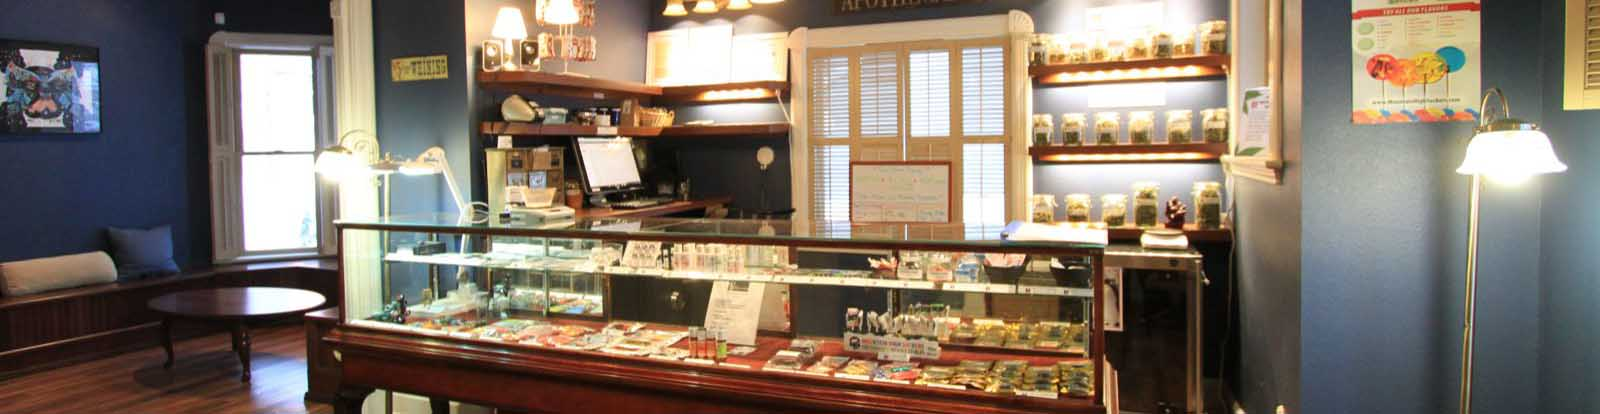
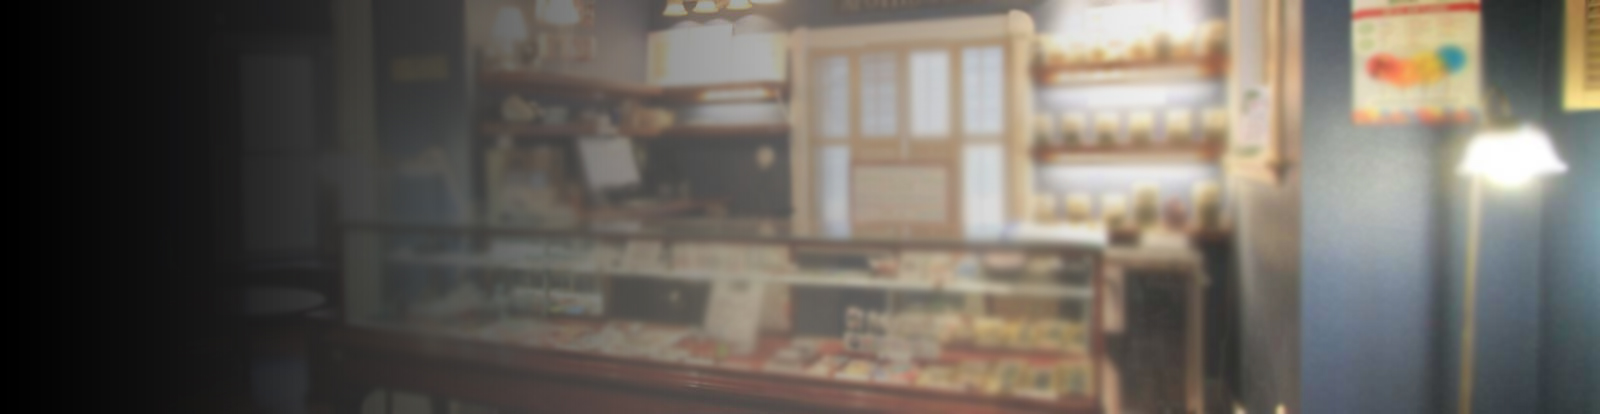
mailer changes and adding balance to disp after purchase

diff --git a/app/assets/stylesheets/application.css.scss b/app/assets/stylesheets/application.css.scss
@@ -29,15 +29,19 @@
 
  .list-well{
   height: 300px;
-  background: url("/assets/default_dispensary.jpg") no-repeat center center; 
+  background: asset-data-url("default_dispensary.jpg") no-repeat center center; 
   color: #f6f6f6 !important;
   padding: 150px 10px 0px 20px;
   cursor: pointer;
  }
 
  .list-well h4{
-
   text-transform: uppercase !important;
+ }
+
+ .list-well a{
+
+  color: #f6f6f6;
  }
 
  #search-bar{
@@ -208,8 +212,8 @@ select {
   color: white;
   text-decoration: none;
 }
- #dispensary-header .row{
-  background: url('THChealth.jpg')no-repeat center center;
+ #dispensary-header{
+  background: asset-data-url('THChealth.jpg')no-repeat center center;
   background-size: cover;
   -moz-background-size: cover;
   -webkit-background-size: cover;

diff --git a/app/models/user.rb b/app/models/user.rb
@@ -4,13 +4,18 @@ class User < ActiveRecord::Base
   devise :database_authenticatable, :registerable,
          :recoverable, :rememberable, :trackable, :validatable
 
-  has_many :loyalty_programs, dependent: :destroy
-  has_many :point_buckets, through: :loyalty_programs
-  has_many :dispensaries, through: :loyalty_programs
+  has_many :dispensaries, through: :redemptions
   has_many :redemptions
+  has_many :deals, through: :redemptions
   has_many :payments
 
   after_create :send_welcome_email
+
+  def set_points(deal)
+    value = (deal.price * 4.20).round(2)
+    self.nugdealz_points += value
+    self.save
+  end
 
   def send_welcome_email
       UserMailer.signup_confirmation(self).deliver
@@ -33,38 +38,12 @@ class User < ActiveRecord::Base
   end
 
   def favorite_dispensaries
-    dispensaries.sort_by{|d| loyalty_points_for(d)}.reverse
+    dispensaries.sort_by{|d| self.redemptions.where(dispensary_id: d.id).count}
   end
 
   def full_name
     "#{first_name} #{last_name}"
   end
-
-  def total_points
-    point_buckets.all.sum(:value)
-  end
-
-  def point_progress_for(dispensary)
-    total_points = loyalty_points_for(dispensary)
-
-    percent = total_points / 100
-    return percent *100
-  end
-
-  def loyalty_points_for(dispensary)
-    loyalty_program_for(dispensary).try(:total_points) || 0
-  end
-
-  def loyalty_program_for(dispensary)
-    self.loyalty_programs.find_by(dispensary_id: dispensary.id)
-  end
-
-  def has_loyalty_program_for?(dispensary)
-    self.loyalty_programs.where(:dispensary_id => dispensary.id).present?
-  end
-
-  def create_loyalty_program_for(dispensary)
-    LoyaltyProgram.create(dispensary_id: dispensary.id, user_id: self.id)
-  end
+  
 
 end

diff --git a/db/schema.rb b/db/schema.rb
@@ -52,6 +52,7 @@ ActiveRecord::Schema.define(version: 20150519133147) do
     t.string   "leafly_slug"
     t.string   "ein"
     t.string   "license_number"
+    t.decimal  "balance",                default: 0.0
   end
 
   add_index "dispensaries", ["email"], name: "index_dispensaries_on_email", unique: true
@@ -76,13 +77,6 @@ ActiveRecord::Schema.define(version: 20150519133147) do
     t.string   "license_number"
   end
 
-  create_table "loyalty_programs", force: true do |t|
-    t.integer  "user_id"
-    t.integer  "dispensary_id"
-    t.datetime "created_at"
-    t.datetime "updated_at"
-  end
-
   create_table "payments", force: true do |t|
     t.integer  "user_id"
     t.integer  "amount"
@@ -91,14 +85,6 @@ ActiveRecord::Schema.define(version: 20150519133147) do
     t.string   "card_last_4"
     t.string   "card_brand"
     t.text     "description"
-    t.datetime "created_at"
-    t.datetime "updated_at"
-  end
-
-  create_table "point_buckets", force: true do |t|
-    t.integer  "user_id"
-    t.integer  "loyalty_program_id"
-    t.float    "value"
     t.datetime "created_at"
     t.datetime "updated_at"
   end
@@ -138,6 +124,7 @@ ActiveRecord::Schema.define(version: 20150519133147) do
     t.boolean  "admin",                  default: false
     t.string   "stripe_customer_token"
     t.integer  "sign_in_count",          default: 0
+    t.decimal  "nugdealz_points",        default: 0.0
   end
 
   add_index "users", ["email"], name: "index_users_on_email", unique: true

diff --git a/app/models/redemption.rb b/app/models/redemption.rb
@@ -3,7 +3,6 @@ class Redemption < ActiveRecord::Base
   belongs_to :deal
   belongs_to :dispensary
 
-  before_create :create_loyalty_program
   after_create :set_points
   after_create :send_confirmation_email
 
@@ -14,16 +13,9 @@ class Redemption < ActiveRecord::Base
   end
 
   def set_points
-    loyalty_program = user.loyalty_program_for(dispensary)
-    bucket_value = (deal.price.round(0))
-    PointBucket.create(user_id: user.id, loyalty_program_id: loyalty_program.id, value: bucket_value)
+    deal = self.deal
+    user.set_points(deal)   
   end
-
-  def create_loyalty_program
-    user = self.user
-    unless user.has_loyalty_program_for?(self.dispensary)
-      user.create_loyalty_program_for(self.dispensary)
-    end
-  end
+  
 
 end

diff --git a/app/models/dispensary.rb b/app/models/dispensary.rb
@@ -13,18 +13,10 @@ class Dispensary < ActiveRecord::Base
 
   has_many :deals, dependent: :destroy
   has_many :redemptions, dependent: :destroy
-  has_many :loyalty_programs, dependent: :destroy
 
   geocoded_by :full_address
   after_validation :geocode
 
-  def balance
-    if redemptions
-      return redemptions.collect{|r| r.deal.price}.inject(:+) / 2
-    else
-      return nil
-    end
-  end
 
   def full_address
     "#{address1}, #{city}, #{state} #{zip}"
@@ -36,9 +28,11 @@ class Dispensary < ActiveRecord::Base
     end
   end
 
-  def reduce_quantity_for(deal)
+  def complete_order_for(deal)
     deal.quantity_available -= 1
     deal.save
+    self.balance += (deal.price*0.5)
+    self.save
   end
 
   def available_deals

diff --git a/app/controllers/payments_controller.rb b/app/controllers/payments_controller.rb
@@ -34,7 +34,7 @@ class PaymentsController < ApplicationController
     respond_to do |format|
       if @payment.save_with_payment
         Redemption.create(user_id: user_id, deal_id: deal_id, dispensary_id: dispensary_id)
-        @dispensary.reduce_quantity_for(@deal)
+        @dispensary.complete_order_for(@deal)
         format.html { redirect_to user_url(@user), notice: 'You have successfully redeemed your deal, check your email for instructions.'}
         format.json { render :show, status: :created, location: @payment }
       else

diff --git a/app/mailers/user_mailer.rb b/app/mailers/user_mailer.rb
@@ -1,5 +1,5 @@
 class UserMailer < ActionMailer::Base
-  default from: "team@nugdealz.com"
+  default from: "\"nugdealz team\" <info@nugdealz.com>"
 
   def signup_confirmation(user)
     @user = user
